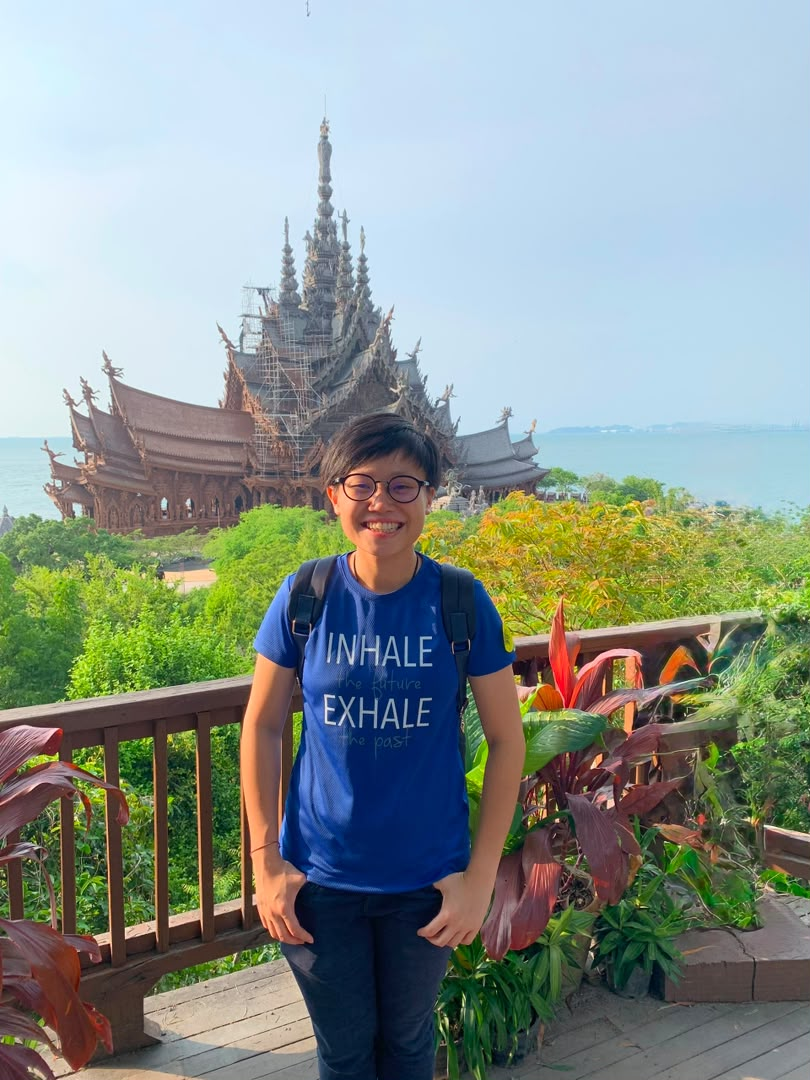
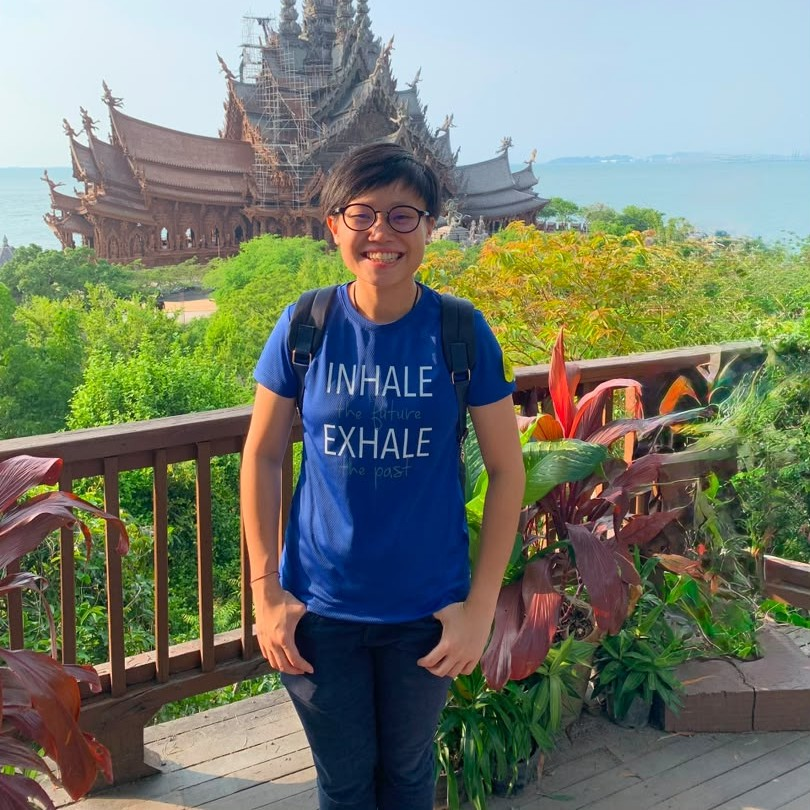
lol

diff --git a/frontend/src/pages/HomePage.jsx b/frontend/src/pages/HomePage.jsx
@@ -1177,7 +1177,6 @@ const HomePage = () => {
                             src={stephaniePhoto}
                             alt="Dr. Stephanie Oung Ker Yue"
                             className="credit-photo"
-                            style={{ objectPosition: 'center top' }}
                           />
                         </div>
 
@@ -1210,7 +1209,6 @@ const HomePage = () => {
                             src={ruhayaPhoto}
                             alt="Dr. Ruhaya binti Hasan"
                             className="credit-photo"
-                            style={{ objectPosition: 'center top' }}
                           />
                         </div>
 
@@ -1243,7 +1241,6 @@ const HomePage = () => {
                             src={norkhafizahPhoto}
                             alt="Associate Professor Dr. Norkhafizah binti Saddki"
                             className="credit-photo"
-                            style={{ objectPosition: 'center top' }}
                           />
                         </div>
 
